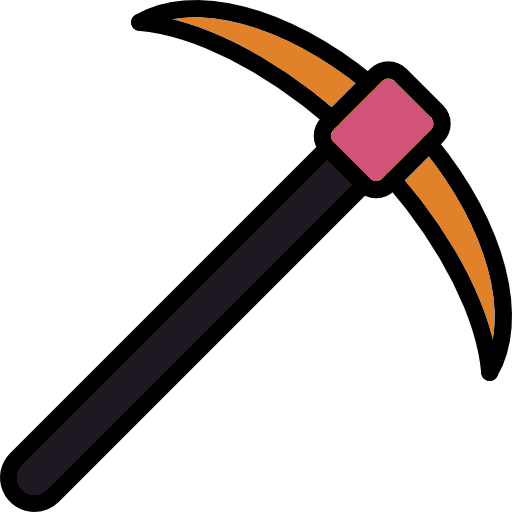
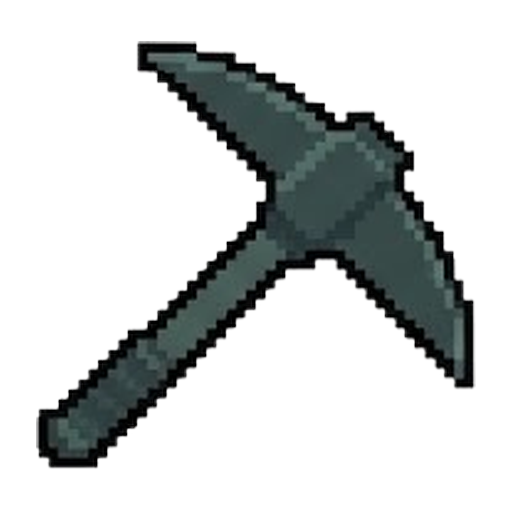
Adopcion de estilo pixelart: picos, polvos, lingotes e insignias de rango

diff --git a/items/equipment/README.md b/items/equipment/README.md
@@ -1,0 +1,96 @@
+# 🛡 Equipamiento y Armamento
+
+Formato recomendado: **128x128 px** o **256x256 px**, formato **PNG con fondo transparente**.
+
+---
+
+### 🪖 1. Casco (`helmet/`)
+| ID BD | Nombre del Ítem | Rango | Nombre sugerido |
+|:---:|---|:---:|---|
+| **406** | Casco de Cuero Roto | `F` | `casco_cuero_roto.png` |
+| **415** | Casco de Cuero y Cobre | `E` | `casco_cuero_cobre.png` |
+| **309** | Casco de Hierro Batido | `D` | `casco_hierro_batido.png` |
+| **310** | Capucha de Cuero Silenciosa | `D` | `capucha_cuero_silenciosa.png` |
+| **311** | Corona de Cristal Iluminado | `D` | `corona_cristal_iluminado.png` |
+| **424** | Casco de Acero Caballero | `C` | `casco_acero_caballero.png` |
+| **434** | Yelmo de Placas de Mithril | `B` | `yelmo_mithril.png` |
+
+---
+
+### 🥋 2. Pechera (`chest/`)
+| ID BD | Nombre del Ítem | Rango | Nombre sugerido |
+|:---:|---|:---:|---|
+| **407** | Chaleco de Cuero Raído | `F` | `chaleco_cuero_raido.png` |
+| **416** | Peto de Cuero y Cobre | `E` | `peto_cuero_cobre.png` |
+| **312** | Coraza de Malla de Hierro | `D` | `coraza_malla_hierro.png` |
+| **313** | Jubón de Cuero Reforzado | `D` | `jubon_cuero_reforzado.png` |
+| **314** | Túnica de Seda Encantada | `D` | `tunica_seda_encantada.png` |
+| **425** | Coraza de Placas de Acero | `C` | `coraza_placas_acero.png` |
+| **435** | Cota de Malla de Mithril Puro | `B` | `cota_mithril_puro.png` |
+| **443** | Armadura de Placas de Adamantio | `A` | `armadura_placas_adamantio.png` |
+
+---
+
+### 👖 3. Pantalones (`pants/`)
+| ID BD | Nombre del Ítem | Rango | Nombre sugerido |
+|:---:|---|:---:|---|
+| **408** | Pantalón de Tela Reforzada | `F` | `pantalon_tela_reforzada.png` |
+| **417** | Grebas de Cuero y Cobre | `E` | `grebas_cuero_cobre.png` |
+| **315** | Grebas de Placas de Hierro | `D` | `grebas_placas_hierro.png` |
+| **316** | Pantalones de Cuero de Explorador | `D` | `pantalones_cuero_explorador.png` |
+| **426** | Pantalones de Placas de Acero | `C` | `pantalones_placas_acero.png` |
+| **436** | Grebas de Mithril Guardian | `B` | `grebas_mithril_guardian.png` |
+
+---
+
+### 🥾 4. Botas (`boots/`)
+| ID BD | Nombre del Ítem | Rango | Nombre sugerido |
+|:---:|---|:---:|---|
+| **409** | Botas de Viajero Gastadas | `F` | `botas_viajero_gastadas.png` |
+| **418** | Botas de Cobre Ligeras | `E` | `botas_cobre_ligeras.png` |
+| **317** | Botas Blindadas de Infantería | `D` | `botas_blindadas_infanteria.png` |
+| **318** | Botas Ligeras de Viento | `D` | `botas_ligeras_viento.png` |
+| **427** | Botas Blindadas de Acero | `C` | `botas_blindadas_acero.png` |
+| **437** | Escarpes de Mithril Alado | `B` | `escarpes_mithril_alado.png` |
+
+---
+
+### ⚔ 5. Mano Principal (`main_hand/`)
+| ID BD | Nombre del Ítem | Rango | Nombre sugerido |
+|:---:|---|:---:|---|
+| **401** | Espada de Madera Rústica | `F` | `espada_madera_rustica.png` |
+| **402** | Báculo de Madera Seca | `F` | `baculo_madera_seca.png` |
+| **403** | Arco Corto de Sauce | `F` | `arco_corto_sauce.png` |
+| **404** | Daga de Caza Rústica | `F` | `daga_caza_rustica.png` |
+| **411** | Espada de Cobre Refinado | `E` | `espada_cobre_refinado.png` |
+| **412** | Báculo de Cobre Canalizador | `E` | `baculo_cobre_canalizador.png` |
+| **413** | Arco Compuesto de Cobre | `E` | `arco_compuesto_cobre.png` |
+| **450** | Daga de Cobre Principal | `E` | `daga_cobre_principal.png` |
+| **301** | Espada de Hierro Templado | `D` | `espada_hierro_templado.png` |
+| **302** | Báculo de Madera Arcano | `D` | `baculo_madera_arcano.png` |
+| **303** | Dagas Gemelas de Asesino | `D` | `dagas_gemelas_asesino.png` |
+| **304** | Arco Largo de Fresno | `D` | `arco_largo_fresno.png` |
+| **305** | Maza Sagrada del Cruzado | `D` | `maza_sagrada_cruzado.png` |
+| **421** | Mandoble de Acero Templado | `C` | `mandoble_acero_templado.png` |
+| **422** | Vara de Cristal de Acero | `C` | `vara_cristal_acero.png` |
+| **453** | Daga de Acero Principal | `C` | `daga_acero_principal.png` |
+| **456** | Arco Largo de Acero Reforzado | `C` | `arco_largo_acero_reforzado.png` |
+| **431** | Hoja de Mithril Reluciente | `B` | `hoja_mithril_reluciente.png` |
+| **432** | Báculo de Mithril Astral | `B` | `baculo_mithril_astral.png` |
+| **441** | Espada Solar de Adamantio | `A` | `espada_solar_adamantio.png` |
+
+---
+
+### 🛡 6. Mano Secundaria (`off_hand/`)
+| ID BD | Nombre del Ítem | Rango | Nombre sugerido |
+|:---:|---|:---:|---|
+| **405** | Broquel de Madera | `F` | `broquel_madera.png` |
+| **414** | Escudo Redondo de Cobre | `E` | `escudo_redondo_cobre.png` |
+| **451** | Daga de Cobre Secundaria | `E` | `daga_cobre_secundaria.png` |
+| **306** | Escudo de Roble con Refuerzo | `D` | `escudo_roble_refuerzo.png` |
+| **307** | Tomo Arcano Menor | `D` | `tomo_arcano_menor.png` |
+| **308** | Daga Parrying de Soporte | `D` | `daga_parrying_soporte.png` |
+| **423** | Escudo de Torre de Acero | `C` | `escudo_torre_acero.png` |
+| **454** | Daga de Acero Secundaria | `C` | `daga_acero_secundaria.png` |
+| **433** | Escudo de Mithril Resplandeciente | `B` | `escudo_mithril_resplandeciente.png` |
+| **442** | Orbe Primordial de Adamantio | `A` | `orbe_primordial_adamantio.png` |

diff --git a/items/equipment/main_hand/README.md b/items/equipment/main_hand/README.md
@@ -1,0 +1,26 @@
+# ⚔ Armas Principales (main_hand)
+
+Formato recomendado: **128x128 px** o **256x256 px**, formato **PNG con fondo transparente**.
+
+| ID | Nombre en el Juego | Rango | Nombre sugerido de archivo |
+|:---:|---|:---:|---|
+| 401 | Espada de Madera Rústica | F | `espada_madera_rustica.png` |
+| 402 | Báculo de Madera Seca | F | `baculo_madera_seca.png` |
+| 403 | Arco Corto de Sauce | F | `arco_corto_sauce.png` |
+| 404 | Daga de Caza Rústica | F | `daga_caza_rustica.png` |
+| 411 | Espada de Cobre Refinado | E | `espada_cobre_refinado.png` |
+| 412 | Báculo de Cobre Canalizador | E | `baculo_cobre_canalizador.png` |
+| 413 | Arco Compuesto de Cobre | E | `arco_compuesto_cobre.png` |
+| 450 | Daga de Cobre Principal | E | `daga_cobre_principal.png` |
+| 301 | Espada de Hierro Templado | D | `espada_hierro_templado.png` |
+| 302 | Báculo de Madera Arcano | D | `baculo_madera_arcano.png` |
+| 303 | Dagas Gemelas de Asesino | D | `dagas_gemelas_asesino.png` |
+| 304 | Arco Largo de Fresno | D | `arco_largo_fresno.png` |
+| 305 | Maza Sagrada del Cruzado | D | `maza_sagrada_cruzado.png` |
+| 421 | Mandoble de Acero Templado | C | `mandoble_acero_templado.png` |
+| 422 | Vara de Cristal de Acero | C | `vara_cristal_acero.png` |
+| 453 | Daga de Acero Principal | C | `daga_acero_principal.png` |
+| 456 | Arco Largo de Acero Reforzado | C | `arco_largo_acero_reforzado.png` |
+| 431 | Hoja de Mithril Reluciente | B | `hoja_mithril_reluciente.png` |
+| 432 | Báculo de Mithril Astral | B | `baculo_mithril_astral.png` |
+| 441 | Espada Solar de Adamantio | A | `espada_solar_adamantio.png` |

diff --git a/items/equipment/off_hand/README.md b/items/equipment/off_hand/README.md
@@ -1,0 +1,16 @@
+# 🛡 Armas Secundarias y Escudos (off_hand)
+
+Formato recomendado: **128x128 px** o **256x256 px**, formato **PNG con fondo transparente**.
+
+| ID | Nombre en el Juego | Rango | Nombre sugerido de archivo |
+|:---:|---|:---:|---|
+| 405 | Broquel de Madera | F | `broquel_madera.png` |
+| 414 | Escudo Redondo de Cobre | E | `escudo_redondo_cobre.png` |
+| 451 | Daga de Cobre Secundaria | E | `daga_cobre_secundaria.png` |
+| 306 | Escudo de Roble con Refuerzo | D | `escudo_roble_refuerzo.png` |
+| 307 | Tomo Arcano Menor | D | `tomo_arcano_menor.png` |
+| 308 | Daga Parrying de Soporte | D | `daga_parrying_soporte.png` |
+| 423 | Escudo de Torre de Acero | C | `escudo_torre_acero.png` |
+| 454 | Daga de Acero Secundaria | C | `daga_acero_secundaria.png` |
+| 433 | Escudo de Mithril Resplandeciente | B | `escudo_mithril_resplandeciente.png` |
+| 442 | Orbe Primordial de Adamantio | A | `orbe_primordial_adamantio.png` |

diff --git a/items/equipment/chest/README.md b/items/equipment/chest/README.md
@@ -1,0 +1,14 @@
+# 🥋 Pecheras / Armaduras de Torso (chest)
+
+Formato recomendado: **128x128 px** o **256x256 px**, formato **PNG con fondo transparente**.
+
+| ID | Nombre en el Juego | Rango | Nombre sugerido de archivo |
+|:---:|---|:---:|---|
+| 407 | Chaleco de Cuero Raído | F | `chaleco_cuero_raido.png` |
+| 416 | Peto de Cuero y Cobre | E | `peto_cuero_cobre.png` |
+| 312 | Coraza de Malla de Hierro | D | `coraza_malla_hierro.png` |
+| 313 | Jubón de Cuero Reforzado | D | `jubon_cuero_reforzado.png` |
+| 314 | Túnica de Seda Encantada | D | `tunica_seda_encantada.png` |
+| 425 | Coraza de Placas de Acero | C | `coraza_placas_acero.png` |
+| 435 | Cota de Malla de Mithril Puro | B | `cota_mithril_puro.png` |
+| 443 | Armadura de Placas de Adamantio | A | `armadura_placas_adamantio.png` |

diff --git a/items/equipment/helmet/README.md b/items/equipment/helmet/README.md
@@ -1,0 +1,13 @@
+# 🪖 Cascos (helmet)
+
+Formato recomendado: **128x128 px** o **256x256 px**, formato **PNG con fondo transparente**.
+
+| ID | Nombre en el Juego | Rango | Nombre sugerido de archivo |
+|:---:|---|:---:|---|
+| 406 | Casco de Cuero Roto | F | `casco_cuero_roto.png` |
+| 415 | Casco de Cuero y Cobre | E | `casco_cuero_cobre.png` |
+| 309 | Casco de Hierro Batido | D | `casco_hierro_batido.png` |
+| 310 | Capucha de Cuero Silenciosa | D | `capucha_cuero_silenciosa.png` |
+| 311 | Corona de Cristal Iluminado | D | `corona_cristal_iluminado.png` |
+| 424 | Casco de Acero Caballero | C | `casco_acero_caballero.png` |
+| 434 | Yelmo de Placas de Mithril | B | `yelmo_mithril.png` |

diff --git a/items/equipment/pants/README.md b/items/equipment/pants/README.md
@@ -1,0 +1,12 @@
+# 👖 Pantalones / Grebas (pants)
+
+Formato recomendado: **128x128 px** o **256x256 px**, formato **PNG con fondo transparente**.
+
+| ID | Nombre en el Juego | Rango | Nombre sugerido de archivo |
+|:---:|---|:---:|---|
+| 408 | Pantalón de Tela Reforzada | F | `pantalon_tela_reforzada.png` |
+| 417 | Grebas de Cuero y Cobre | E | `grebas_cuero_cobre.png` |
+| 315 | Grebas de Placas de Hierro | D | `grebas_placas_hierro.png` |
+| 316 | Pantalones de Cuero de Explorador | D | `pantalones_cuero_explorador.png` |
+| 426 | Pantalones de Placas de Acero | C | `pantalones_placas_acero.png` |
+| 436 | Grebas de Mithril Guardian | B | `grebas_mithril_guardian.png` |

diff --git a/items/equipment/boots/README.md b/items/equipment/boots/README.md
@@ -1,0 +1,12 @@
+# 🥾 Botas (boots)
+
+Formato recomendado: **128x128 px** o **256x256 px**, formato **PNG con fondo transparente**.
+
+| ID | Nombre en el Juego | Rango | Nombre sugerido de archivo |
+|:---:|---|:---:|---|
+| 409 | Botas de Viajero Gastadas | F | `botas_viajero_gastadas.png` |
+| 418 | Botas de Cobre Ligeras | E | `botas_cobre_ligeras.png` |
+| 317 | Botas Blindadas de Infantería | D | `botas_blindadas_infanteria.png` |
+| 318 | Botas Ligeras de Viento | D | `botas_ligeras_viento.png` |
+| 427 | Botas Blindadas de Acero | C | `botas_blindadas_acero.png` |
+| 437 | Escarpes de Mithril Alado | B | `escarpes_mithril_alado.png` |
